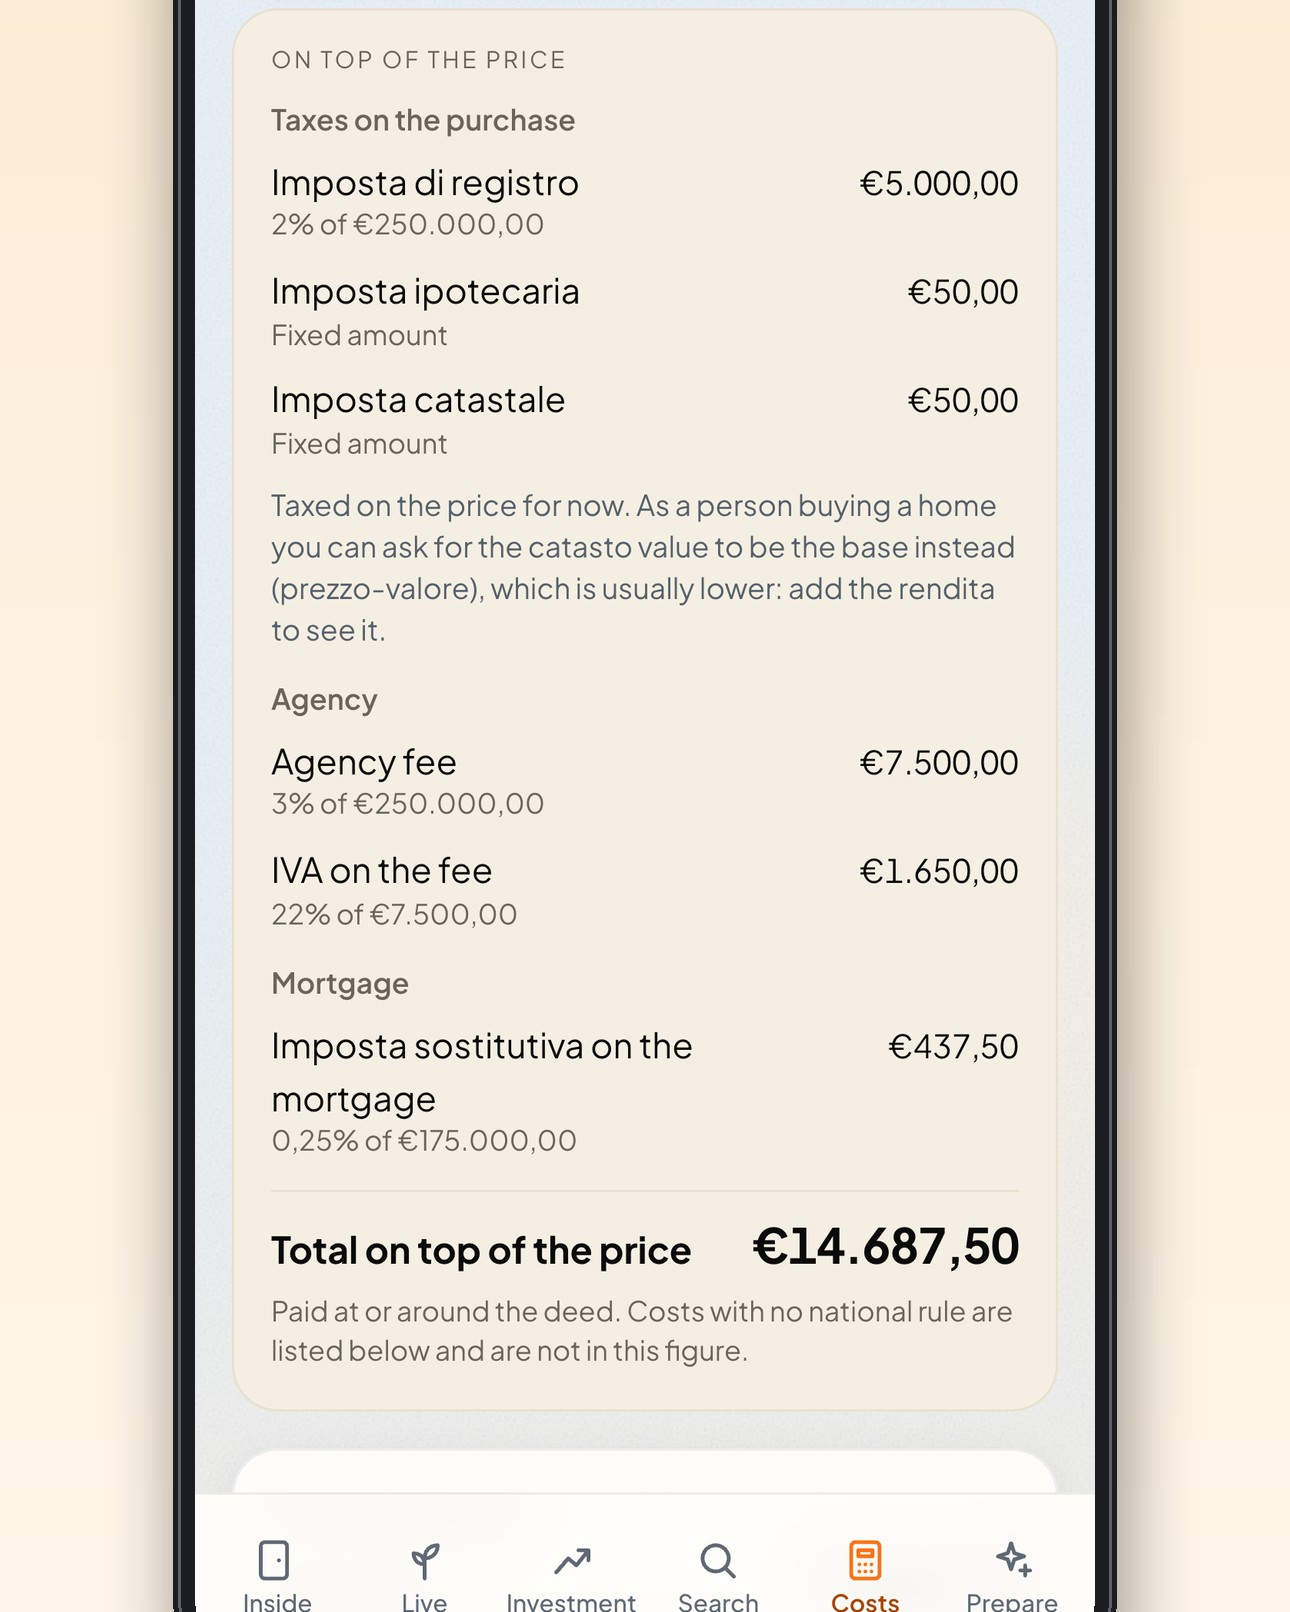
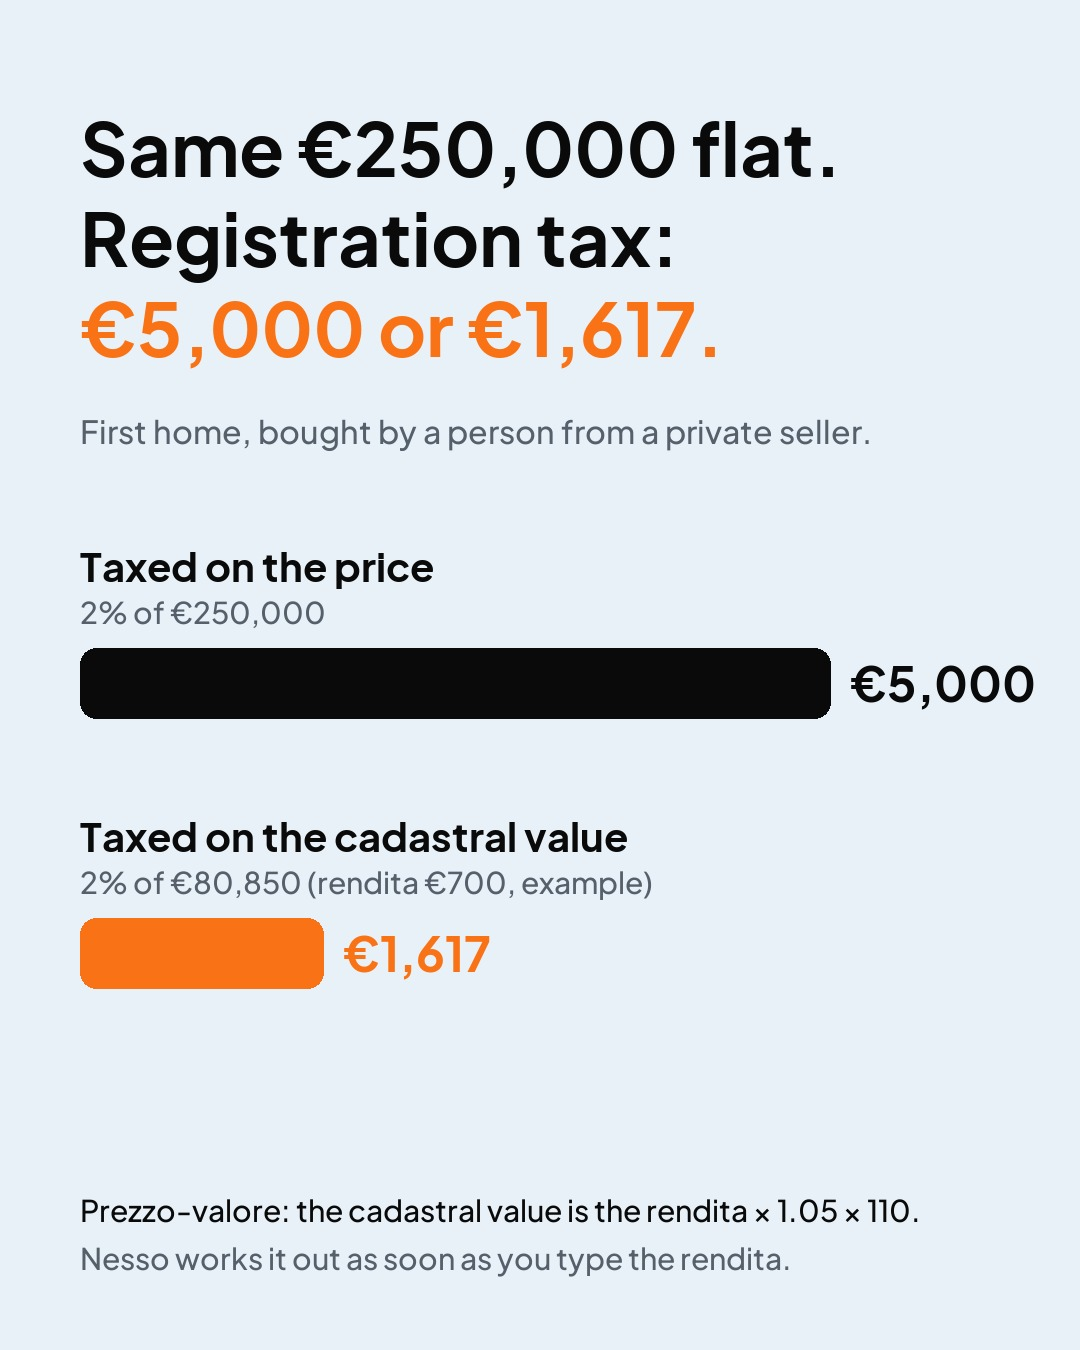
Page drafts, week of 17 November: hold up to a specialist's read
Denmark: dropped 'we had to build the postcode map'. Official postcode
polygons exist in DAGI (open, CC BY 4.0); only DAWA closed. The post now
says what is true and rarer: each country's figures at the unit they are
published at, realised Finans Danmark prices, the gap to first asking.
Costs: a notary would object to 2% of the price as what a buyer pays, so
the post shows prezzo-valore (rendita 700 example, purchaseCosts: 5,000 vs
1,617). Short lets: 'Permitted' became 'No city limit found', plus the CIN
and condominium caveats, and the Venezia cap still a proposal (checked in
the code and in a 2026 source).

diff --git a/drafts/li-nesso/costs-to-the-cent/post.md b/drafts/li-nesso/costs-to-the-cent/post.md
@@ -4,14 +4,12 @@ at: 2026-11-18T08:30+01:00
 type: multi-image
 media: post-2a-photo.jpg, post-2b-buying-costs.jpg
 ---
-Our mortgage maths is tested against Banca d'Italia's own examples. To the cent. 🧮
+Same €250,000 flat in Italy: €5,000 or €1,617 in registration tax. The difference is one number from the land registry. 🧮
 
-Nesso's buying-costs calculator for Italy reproduces all six worked examples from Banca d'Italia's mortgage guide and an Italian estate agents' course. If a code change breaks one of them, the build fails.
+Buy a home as a person from a private seller and you can ask for the tax to be worked out on the cadastral value instead of the price (prezzo-valore). For a first home with a cadastral income of €700, as an example, the base drops from €250,000 to €80,850.
 
-Every tax rate sits next to the law it comes from. A cost with no national rule, like the notary or the bank's fees, is named but never guessed.
-
-On screen: a €250,000 first home, 3% agency fee, €175,000 mortgage. €14,687.50 on top of the price.
+Nesso's buying-costs calculator does this as soon as you type the rendita from the visura catastale. The agency fee, VAT on the fee and the mortgage substitute tax each sit on their own line.
 
 👉 nesso.fit/buying-costs-italy?via=linkedin
 
-#proptech #mortgage #italy
+#proptech #realestate #italy

diff --git a/drafts/li-nesso/denmark-postcodes/post.md b/drafts/li-nesso/denmark-postcodes/post.md
@@ -4,13 +4,13 @@ at: 2026-11-17T08:30+01:00
 type: multi-image
 media: post-1a-photo.jpg, post-1b-denmark-postcodes.jpg
 ---
-Denmark publishes home prices per postcode. The map of those postcodes? We had to build it. 🇩🇰
+Italy publishes home price ranges by OMI zone, twice a year. Denmark publishes prices by postcode, every quarter. 🇮🇹🇩🇰
 
-Finans Danmark publishes kr per m² for every postcode each quarter, for flats and for houses. But the official Danish address service now answers "410 Gone", and OpenStreetMap had outlines for only ten postcodes.
+Nesso shows each country's official figures at the unit they are published at, and never finer.
 
-Every Danish address in OpenStreetMap carries its postcode, though. So each hexagon takes the postcode most of its addresses carry, and a postcode becomes the hexagons that share it.
+In Denmark that means realised sale prices per m² from Finans Danmark, for flats and for houses, across 89 postcodes in Copenhagen, Aarhus, Odense, Aalborg and Esbjerg. Nesso also shows how far the sale price sat below the first asking price, and marks that one as worked out from Finans Danmark's figures.
 
-89 postcodes across Copenhagen, Aarhus, Odense, Aalborg and Esbjerg. Source: Finans Danmark.
+Source: Finans Danmark, Boligmarkedsstatistikken (BM011).
 
 👉 nesso.fit/?via=linkedin
 

diff --git a/drafts/li-nesso/short-let-rules/post.md b/drafts/li-nesso/short-let-rules/post.md
@@ -6,12 +6,14 @@ media: post-3a-photo.jpg, post-3b-short-let-rules.jpg
 ---
 We read the short-let rules of 10 Italian cities. The acts, not the articles about them. 📜
 
-⛔ Restricted: Firenze, Roma, Bologna
-✅ Permitted: Torino, Milano, Genova, Palermo, Catania
-❔ Not verified: Venezia, Napoli
+⛔ City limits in force: Firenze, Roma, Bologna
+✅ No city limit found: Torino, Milano, Genova, Palermo, Catania
+❔ Not settled: Venezia, Napoli
 
-"Restricted" means very different things. In Roma the limit reaches only flats created by converting or splitting units inside the UNESCO centre. In Bologna it is a 50 m² minimum in the historic city.
+Venezia's 120-day cap, widely reported as law since 2024, was still a council proposal when we checked in September.
 
-Where a rule is not verified, Nesso's investment map shows no short-let score.
+Everywhere, a short let still needs the national CIN code, and a building's contractual condominium rules can restrict it.
+
+Where a rule is not verified, Nesso gives no short-let score.
 
 #proptech #shorttermrentals #italy
